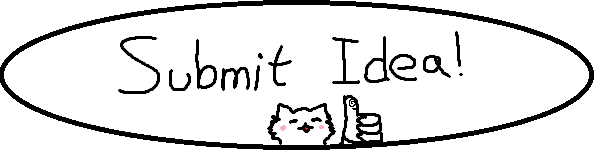
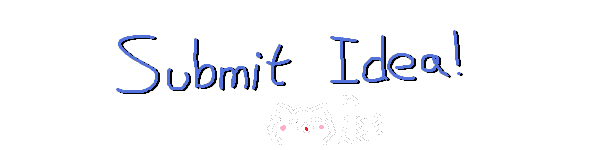
Changed it into white

diff --git a/src/components/UpdateIdeaPage.jsx b/src/components/UpdateIdeaPage.jsx
@@ -5,7 +5,9 @@ import {
   TextField,
   ButtonBase,
   Stack,
+  IconButton,
 } from "@mui/material";
+import AddCircleOutlineOutlinedIcon from "@mui/icons-material/AddCircleOutlineOutlined";
 import { useState, useEffect } from "react";
 import DrawingBox from "./DrawingBox";
 
@@ -13,25 +15,24 @@ export default function IdeaDetailsPage({ idea, onIdeasChanged }) {
   const [drawingBoxes, setDrawingBoxes] = useState(idea?.drawingBoxes || []);
 
   function formatDate(dateString) {
-  if (!dateString) {
-    return "No date";
+    if (!dateString) {
+      return "No date";
+    }
+
+    const date = new Date(dateString + "T00:00:00");
+
+    return date.toLocaleDateString("en-US", {
+      year: "numeric",
+      month: "long",
+      day: "numeric",
+    });
   }
-
-  const date = new Date(dateString + "T00:00:00");
-
-  return date.toLocaleDateString("en-US", {
-    year: "numeric",
-    month: "long",
-    day: "numeric",
-  });
-}
 
   function updateDrawingBox(updatedBox) {
     setDrawingBoxes((prevBoxes) =>
       prevBoxes.map((box) => (box.id === updatedBox.id ? updatedBox : box)),
     );
   }
-
 
   function addDrawingBox() {
     const newBox = {
@@ -80,25 +81,53 @@ export default function IdeaDetailsPage({ idea, onIdeasChanged }) {
 
   return (
     <Box>
-      <Typography variant="h4" gutterBottom>
+      <Typography
+        variant="h4"
+        gutterBottom
+        sx={{
+          fontFamily: "monospace",
+          fontSize: "35px",
+          color: "white",
+          mt: 2,
+        }}
+      >
         {" "}
         {idea.idea_meat}{" "}
       </Typography>
-      <Typography>Start: {formatDate(idea.idea_start) || "No start date"}</Typography>
-      <Typography>End: {formatDate(idea.idea_end) || "No end date"}</Typography>
-      <Typography sx={{ mt: 2 }}>
+      <Typography
+        sx={{
+          fontFamily: "monospace",
+          fontSize: "25px",
+          color: "white",
+          mt: 2,
+        }}
+      >
+        Start: {formatDate(idea.idea_start) || "No start date"}
+      </Typography>
+      <Typography
+        sx={{
+          fontFamily: "monospace",
+          fontSize: "25px",
+          color: "white",
+          mt: 2,
+        }}
+      >
+        End: {formatDate(idea.idea_end) || "No end date"}
+      </Typography>
+      <Typography
+        sx={{
+          fontFamily: "monospace",
+          fontSize: "15px",
+          color: "white",
+          mt: 2,
+        }}
+      >
         Description: {idea.idea_desc || "No description"}
       </Typography>
       <Stack direction="column" spacing={4}>
-        <ButtonBase onClick={addDrawingBox}>
-          <img
-            src="./images/anotherOne.png"
-            alt="Old Ideas"
-            className="menu-button"
-            width={100}
-            height={100}
-          />
-        </ButtonBase>
+        <IconButton sx={{ color: "white" }} onClick={addDrawingBox}>
+          <AddCircleOutlineOutlinedIcon />
+        </IconButton>
 
         {drawingBoxes.map((box) => (
           <DrawingBox

diff --git a/src/components/NewIdeaPage.jsx b/src/components/NewIdeaPage.jsx
@@ -11,7 +11,7 @@ import {
 import NewIdeaCalendar from "./NewIdeaCalendar";
 import { useState } from "react";
 import LabelSelect from "./LabelCreation";
-
+import "../App.css";
 const STORAGE_KEY = "ideas";
 
 export default function NewIdea({ onIdeaSaved }) {
@@ -93,6 +93,7 @@ function formatDate(dateString) {
         <TextField
           id="standard-multiline-flexible"
           label="Whats on your mind?"
+          className="white-underline-textfield"
           multiline
           maxRows={4}
           fullWidth
@@ -105,18 +106,20 @@ function formatDate(dateString) {
         <TextField
           id="outlined-multiline-static"
           label="Description"
+          className="white-underline-textfield"
           multiline
           maxRows={4}
           fullWidth
           value={ideaDesc}
           onChange={(e) => setIdeaDesc(e.target.value)}
           variant="standard"
+          
         />
   {/* Date button*/}
         
         <ButtonBase onClick={() => setCalOpen(true)}>
           <Typography 
-            sx={{ mt: 3, p: 2, border: "1px solid black" }}
+            sx={{ mt: 3, p: 2, border: "1px solid white", color:"white" }}
             style={{ fontFamily: "monospace" }}
             variant="h4"
             gutterBottom

diff --git a/src/App.css b/src/App.css
@@ -14,3 +14,39 @@
 }
 
 
+.white-underline-textfield .MuiInput-underline:before {
+  border-bottom-color: white;
+}
+
+.white-underline-textfield .MuiInput-underline:hover:before {
+  border-bottom-color: white;
+}
+
+.white-underline-textfield .MuiInput-underline:after {
+  border-bottom-color: white;
+}
+
+.white-underline-textfield label {
+  color: white;
+}
+
+.white-underline-textfield label.Mui-focused {
+  color: white;
+}
+
+.white-underline-textfield input,
+.white-underline-textfield textarea {
+  color: white;
+}
+
+.white-select-textfield .MuiOutlinedInput-notchedOutline {
+  border-color: white;
+}
+
+.fc {
+  color: white;
+}
+
+.fc a {
+  color: white;
+}

diff --git a/src/components/LabelCreation.jsx b/src/components/LabelCreation.jsx
@@ -9,7 +9,7 @@ import {
   Button,
   Stack,
 } from "@mui/material";
-
+import "../App.css"
 const LABELS_STORAGE_KEY = "labels";
 
 export default function LabelSelect({ selectedLabel, setSelectedLabel }) {
@@ -69,7 +69,13 @@ export default function LabelSelect({ selectedLabel, setSelectedLabel }) {
       <TextField
         select
         label="Choose Label"
+        InputLabelProps={{
+    style: { color: 'white' },
+  }}
         value={selectedLabel}
+      
+        className="white-select-textfield"
+  
         onChange={handleSelectChange}
         fullWidth
       >

diff --git a/src/components/Calendar.jsx b/src/components/Calendar.jsx
@@ -1,6 +1,6 @@
 import FullCalendar from "@fullcalendar/react";
 import dayGridPlugin from "@fullcalendar/daygrid";
-
+import "../App.css";
 export default function DatesCalendar({ events }) {
   return (
     <FullCalendar
@@ -8,6 +8,7 @@ export default function DatesCalendar({ events }) {
       plugins={[dayGridPlugin]}
       initialView="dayGridMonth"
       events={events}
+      className = "fc-theme-standar td"
       titleFormat={{
         year: "numeric",
         month: "short",

diff --git a/src/index.css b/src/index.css
@@ -10,6 +10,6 @@ body {
 }
 
 body {
-  background: linear-gradient(200deg, #626160, #626160, #626160);
+  background: linear-gradient(150deg, #5d5d5d, #2d2c2c, #302d2d);
   background-attachment: fixed;
 }
